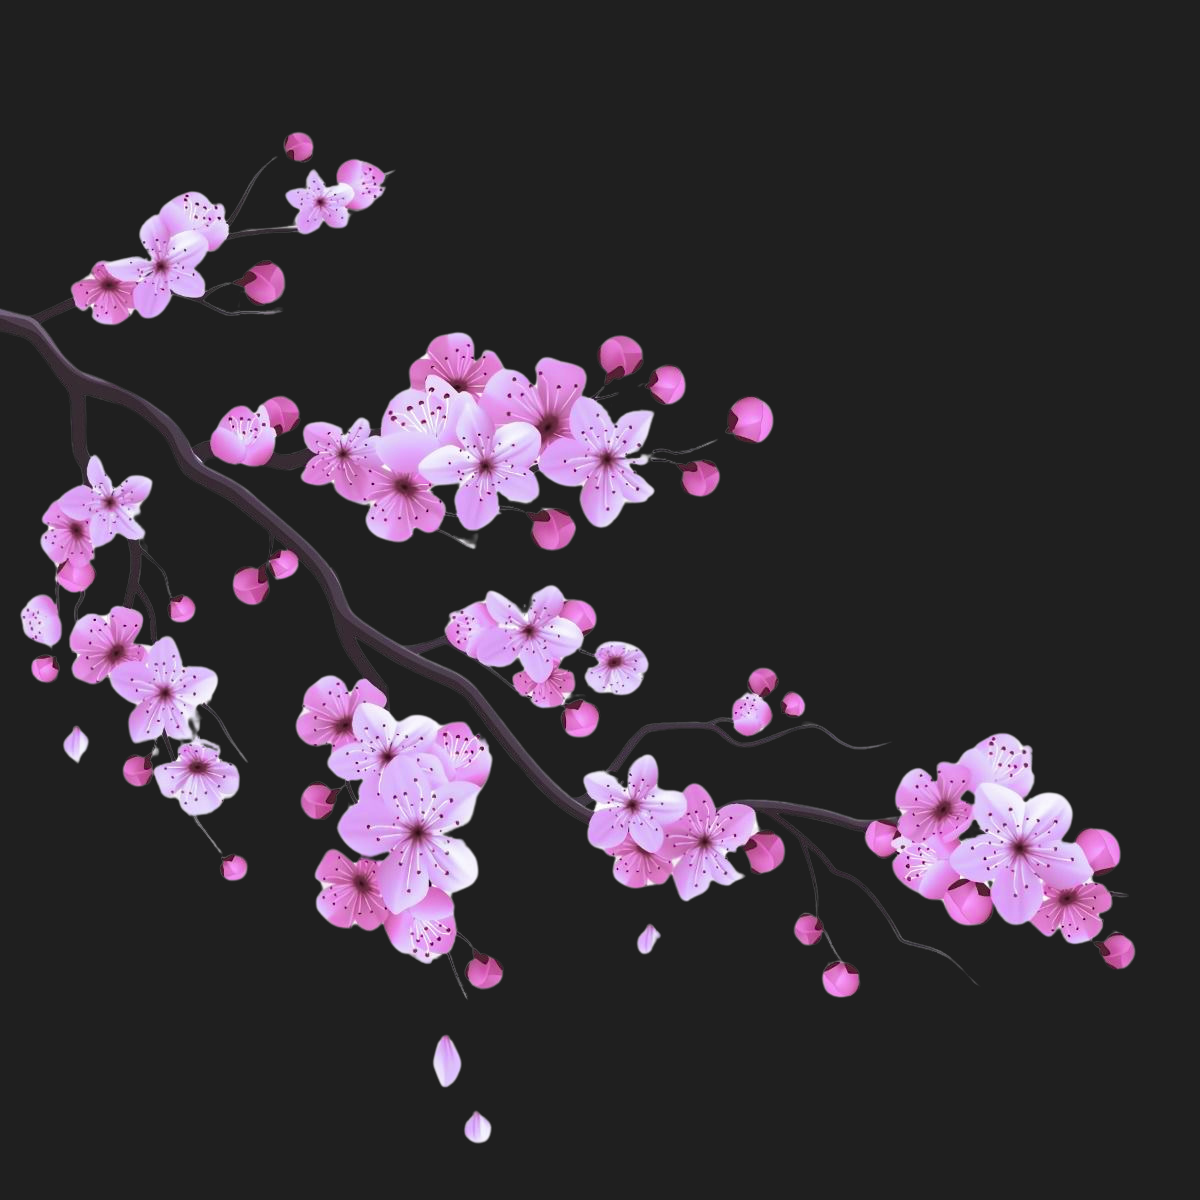
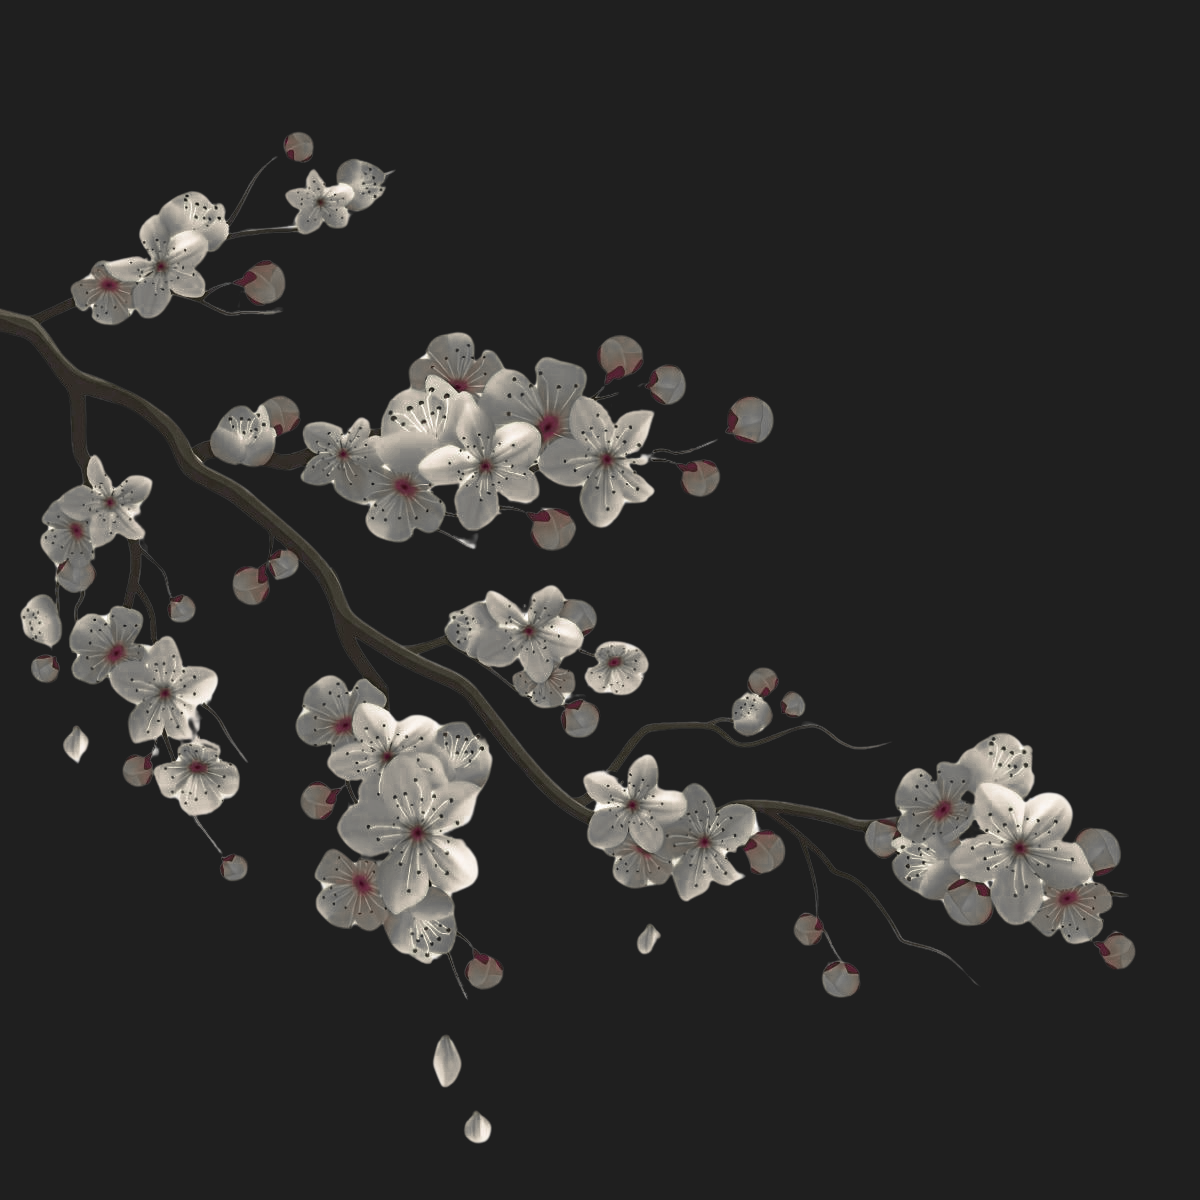
change background and add it other pages

diff --git a/assets/css/app.css b/assets/css/app.css
@@ -71,7 +71,7 @@
 /* Cherry blossom background for homepage */
 .cherry-blossom-bg {
     position: relative;
-    min-height: 100vh;
+    min-height: 80vh;
 }
 
 .cherry-blossom-bg::before {
@@ -90,8 +90,6 @@
     pointer-events: none;
 }
 
-.cherry-blossom-bg > * {
-    position: relative;
-    z-index: 1;
-    text-shadow: 0 3px 15px rgb(45, 131, 223);
+.cherry-blossom-dim::before {
+    background-image: url("/images/cherry_blossom_dim.png");
 }
